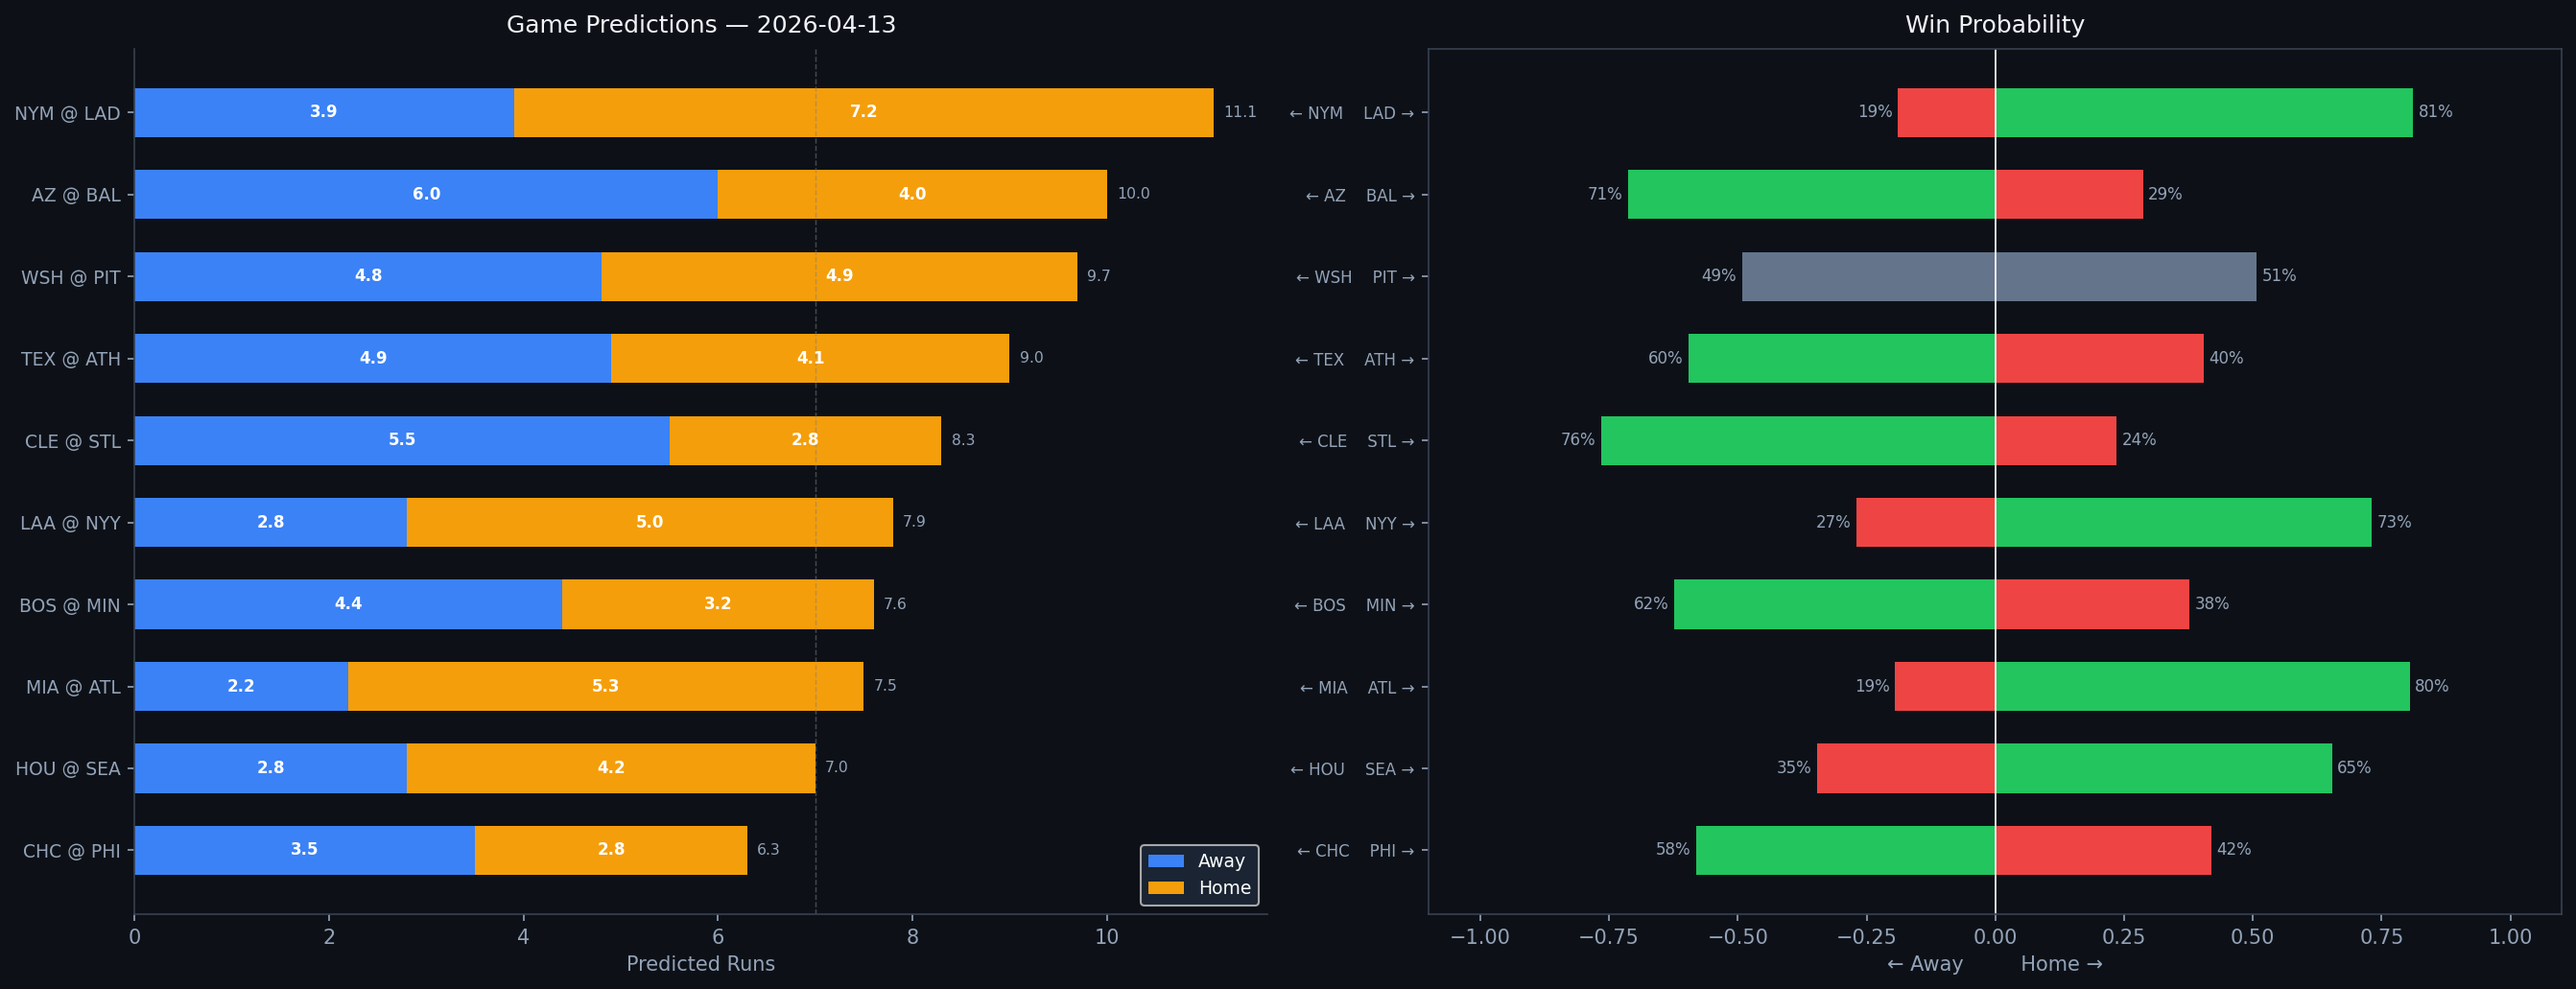
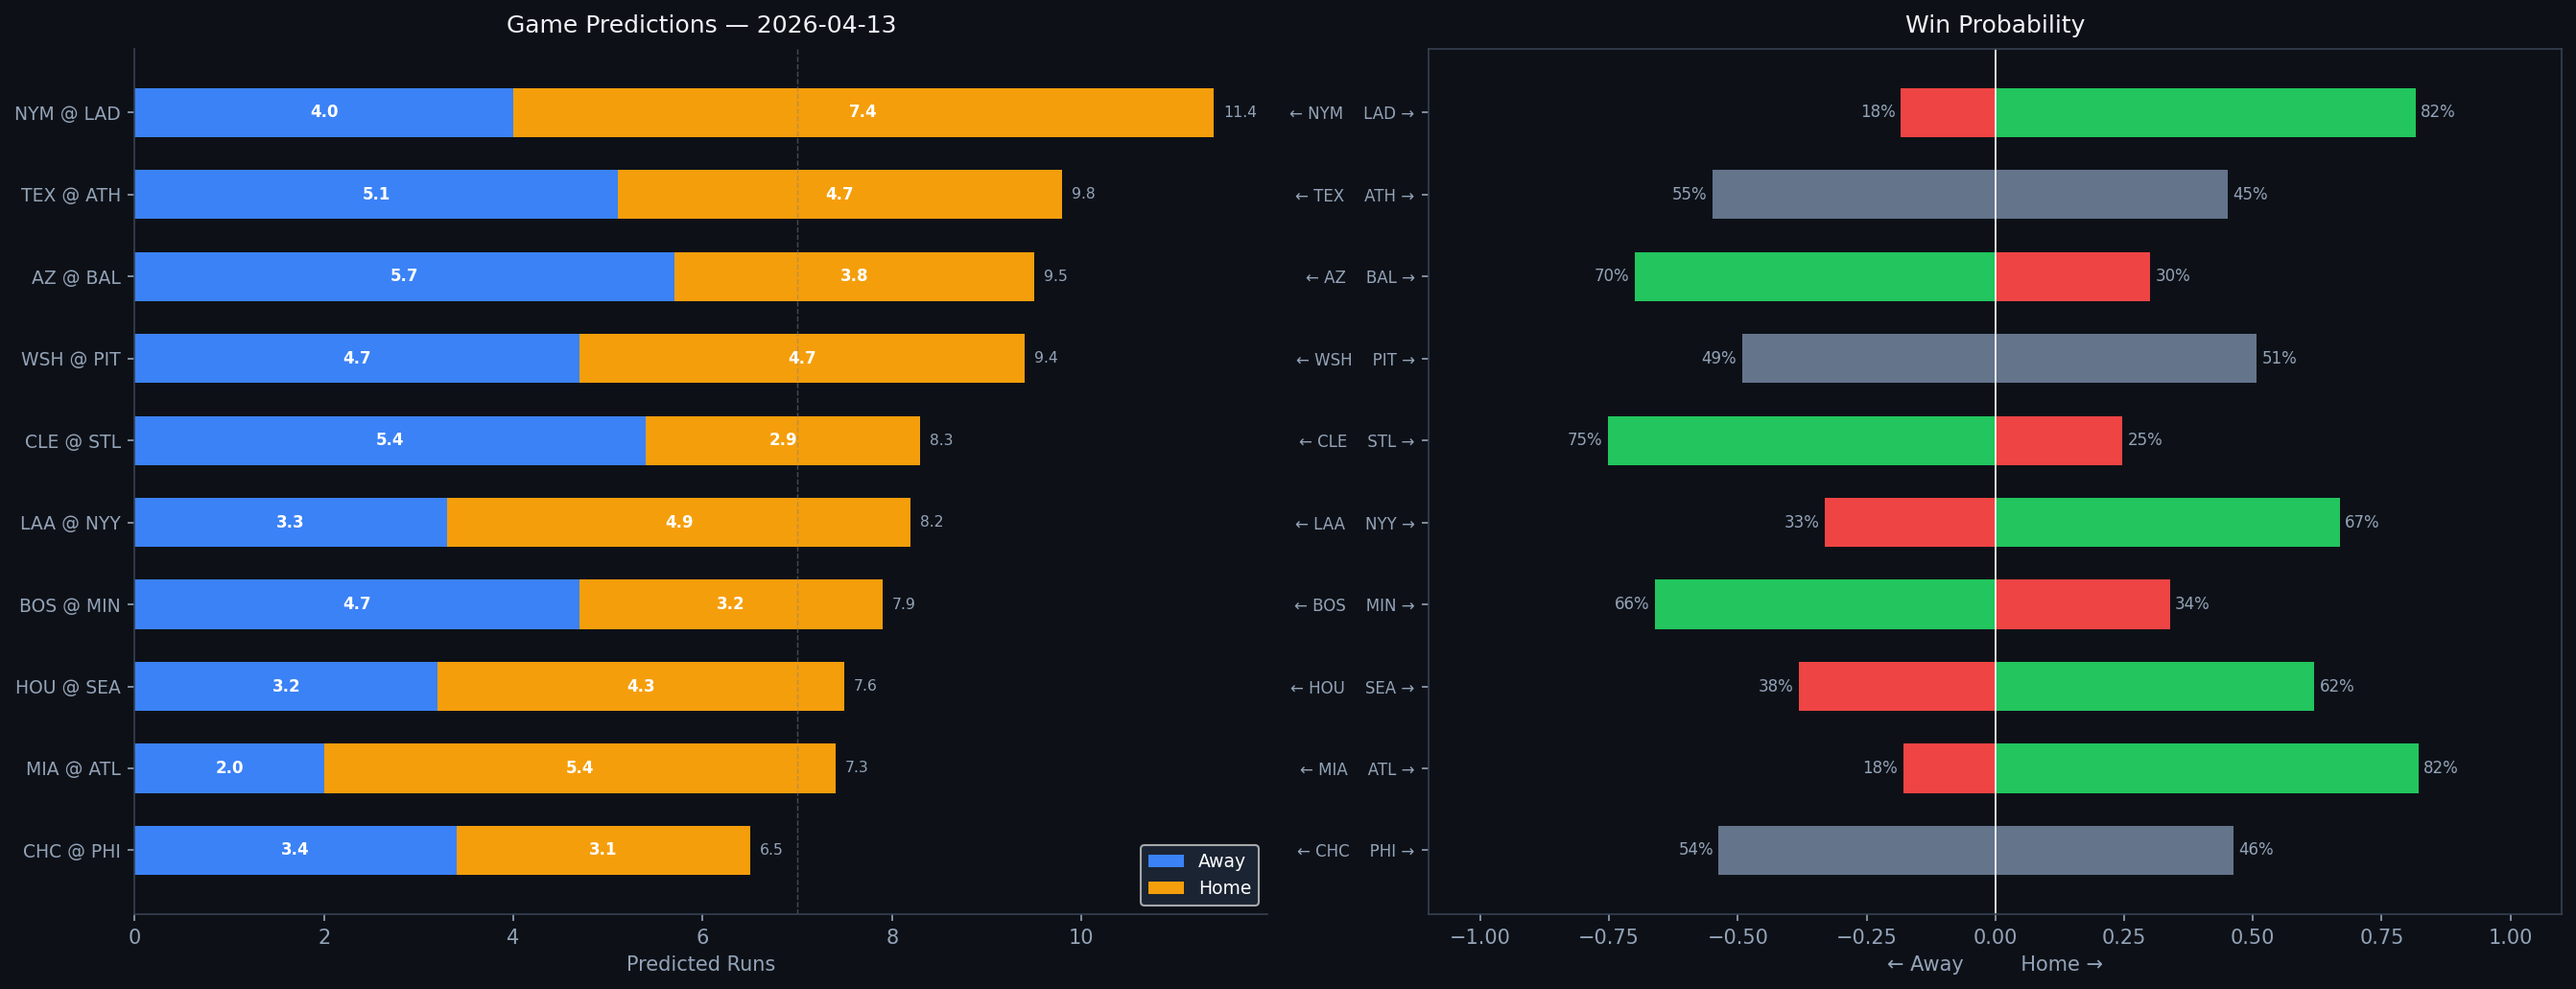
predictions: 2026-04-13 [skip ci]

diff --git a/docs/index.html b/docs/index.html
@@ -60,7 +60,7 @@
       </div>
       <div class="meta-card">
         <div class="label">Avg Total Runs</div>
-        <div class="value">8.4</div>
+        <div class="value">8.6</div>
       </div>
       <div class="meta-card">
         <div class="label">Highest Scoring</div>
@@ -99,10 +99,10 @@
           
         <tr>
           <td class="matchup">NYM @ LAD</td>
-          <td class="score">3.9 – 7.2</td>
+          <td class="score">4.0 – 7.4</td>
           <td class="winner-home">LAD</td>
-          <td>81% / 19%</td>
-          <td class="total">11.1</td>
+          <td>82% / 18%</td>
+          <td class="total">11.4</td>
           <td>0.751 / 0.708</td>
           <td>0.396 / 0.334</td>
           <td>13.6% / 10.6%</td>
@@ -111,121 +111,121 @@
           <td class="weather">72°F / 8mph / 10% rain</td>
         </tr>
         <tr>
-          <td class="matchup">AZ @ BAL</td>
-          <td class="score">6.0 – 4.0</td>
-          <td class="winner-away">AZ</td>
-          <td>29% / 71%</td>
-          <td class="total">10.0</td>
-          <td>0.643 / 0.707</td>
-          <td>0.28 / 0.341</td>
-          <td>9.8% / 14.1%</td>
-          <td>Ryne Nelson (4.18)</td>
-          <td>TBD (4.5)</td>
-          <td class="weather">89°F / 17mph / 0% rain</td>
-        </tr>
-        <tr>
-          <td class="matchup">WSH @ PIT</td>
-          <td class="score">4.8 – 4.9</td>
-          <td class="winner-home">PIT</td>
-          <td>51% / 49%</td>
-          <td class="total">9.7</td>
-          <td>0.673 / 0.686</td>
-          <td>0.243 / 0.365</td>
-          <td>9.4% / 9.4%</td>
-          <td>Cade Cavalli (4.54)</td>
-          <td>Paul Skenes (2.08) <span class="elite">⚡ Paul Skenes</span></td>
-          <td class="weather">51°F / 4mph / 7% rain</td>
-        </tr>
-        <tr>
           <td class="matchup">TEX @ ATH</td>
-          <td class="score">4.9 – 4.1</td>
+          <td class="score">5.1 – 4.7</td>
           <td class="winner-away">TEX</td>
-          <td>40% / 60%</td>
-          <td class="total">9.0</td>
+          <td>45% / 55%</td>
+          <td class="total">9.8</td>
           <td>0.701 / 0.768</td>
           <td>0.329 / 0.334</td>
           <td>9.3% / 14.0%</td>
           <td>Nathan Eovaldi (3.93)</td>
           <td>Luis Severino (3.94)</td>
-          <td class="weather">72°F / 8mph / 10% rain</td>
+          <td class="weather">90°F / 17mph / 0% rain</td>
+        </tr>
+        <tr>
+          <td class="matchup">AZ @ BAL</td>
+          <td class="score">5.7 – 3.8</td>
+          <td class="winner-away">AZ</td>
+          <td>30% / 70%</td>
+          <td class="total">9.5</td>
+          <td>0.643 / 0.707</td>
+          <td>0.28 / 0.341</td>
+          <td>9.8% / 14.1%</td>
+          <td>Ryne Nelson (4.18)</td>
+          <td>TBD (4.5)</td>
+          <td class="weather">90°F / 17mph / 0% rain</td>
+        </tr>
+        <tr>
+          <td class="matchup">WSH @ PIT</td>
+          <td class="score">4.7 – 4.7</td>
+          <td class="winner-home">PIT</td>
+          <td>51% / 49%</td>
+          <td class="total">9.4</td>
+          <td>0.673 / 0.686</td>
+          <td>0.243 / 0.365</td>
+          <td>9.4% / 9.4%</td>
+          <td>Cade Cavalli (4.54)</td>
+          <td>Paul Skenes (2.08) <span class="elite">⚡ Paul Skenes</span></td>
+          <td class="weather">53°F / 9mph / 4% rain</td>
         </tr>
         <tr>
           <td class="matchup">CLE @ STL</td>
-          <td class="score">5.5 – 2.8</td>
+          <td class="score">5.4 – 2.9</td>
           <td class="winner-away">CLE</td>
-          <td>24% / 76%</td>
+          <td>25% / 75%</td>
           <td class="total">8.3</td>
           <td>0.663 / 0.72</td>
           <td>0.307 / 0.325</td>
           <td>10.7% / 12.3%</td>
           <td>Gavin Williams (3.46)</td>
           <td>Matthew Liberatore (4.58)</td>
-          <td class="weather">72°F / 8mph / 10% rain</td>
+          <td class="weather">82°F / 16mph / 5% rain</td>
         </tr>
         <tr>
           <td class="matchup">LAA @ NYY</td>
-          <td class="score">2.8 – 5.0</td>
+          <td class="score">3.3 – 4.9</td>
           <td class="winner-home">NYY</td>
-          <td>73% / 27%</td>
-          <td class="total">7.9</td>
+          <td>67% / 33%</td>
+          <td class="total">8.2</td>
           <td>0.769 / 0.705</td>
           <td>0.318 / 0.283</td>
           <td>14.0% / 9.7%</td>
           <td>Yusei Kikuchi (4.5)</td>
           <td>Will Warren (5.0)</td>
-          <td class="weather">73°F / 12mph / 1% rain</td>
+          <td class="weather">74°F / 12mph / 1% rain</td>
         </tr>
         <tr>
           <td class="matchup">BOS @ MIN</td>
-          <td class="score">4.4 – 3.2</td>
+          <td class="score">4.7 – 3.2</td>
           <td class="winner-away">BOS</td>
-          <td>38% / 62%</td>
-          <td class="total">7.6</td>
+          <td>34% / 66%</td>
+          <td class="total">7.9</td>
           <td>0.734 / 0.699</td>
           <td>0.296 / 0.281</td>
           <td>11.9% / 7.9%</td>
           <td>Garrett Crochet (2.95)</td>
           <td>Bailey Ober (4.11)</td>
-          <td class="weather">72°F / 8mph / 10% rain</td>
+          <td class="weather">90°F / 17mph / 0% rain</td>
+        </tr>
+        <tr>
+          <td class="matchup">HOU @ SEA</td>
+          <td class="score">3.2 – 4.3</td>
+          <td class="winner-home">SEA</td>
+          <td>62% / 38%</td>
+          <td class="total">7.6</td>
+          <td>0.752 / 0.753</td>
+          <td>0.3 / 0.292</td>
+          <td>10.9% / 10.4%</td>
+          <td>Mike Burrows (4.14)</td>
+          <td>George Kirby (3.59)</td>
+          <td class="weather">64°F / 11mph / 1% rain</td>
         </tr>
         <tr>
           <td class="matchup">MIA @ ATL</td>
-          <td class="score">2.2 – 5.3</td>
+          <td class="score">2.0 – 5.4</td>
           <td class="winner-home">ATL</td>
-          <td>80% / 20%</td>
-          <td class="total">7.5</td>
+          <td>82% / 18%</td>
+          <td class="total">7.3</td>
           <td>0.708 / 0.7</td>
           <td>0.309 / 0.232</td>
           <td>11.5% / 9.1%</td>
           <td>Eury Pérez (3.82)</td>
           <td>Grant Holmes (3.72)</td>
-          <td class="weather">82°F / 16mph / 5% rain</td>
-        </tr>
-        <tr>
-          <td class="matchup">HOU @ SEA</td>
-          <td class="score">2.8 – 4.2</td>
-          <td class="winner-home">SEA</td>
-          <td>65% / 35%</td>
-          <td class="total">7.0</td>
-          <td>0.73 / 0.735</td>
-          <td>0.267 / 0.348</td>
-          <td>10.1% / 9.4%</td>
-          <td>Mike Burrows (4.14)</td>
-          <td>George Kirby (3.59)</td>
-          <td class="weather">64°F / 10mph / 1% rain</td>
+          <td class="weather">79°F / 18mph / 2% rain</td>
         </tr>
         <tr>
           <td class="matchup">CHC @ PHI</td>
-          <td class="score">3.5 – 2.8</td>
+          <td class="score">3.4 – 3.1</td>
           <td class="winner-away">CHC</td>
-          <td>42% / 58%</td>
-          <td class="total">6.3</td>
+          <td>46% / 54%</td>
+          <td class="total">6.5</td>
           <td>0.766 / 0.762</td>
           <td>0.298 / 0.338</td>
           <td>11.7% / 15.1%</td>
           <td>Javier Assad (3.37)</td>
           <td>Cristopher Sánchez (3.2)</td>
-          <td class="weather">84°F / 17mph / 2% rain</td>
+          <td class="weather">82°F / 16mph / 1% rain</td>
         </tr>
         </tbody>
       </table>
